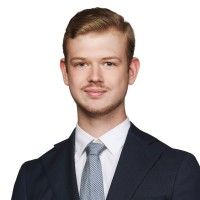
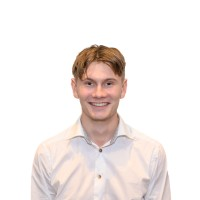
Add all team photos: Tom, Gabriel, Daniel, and Abdul
Replace placeholder initials with actual team photos for all four co-founders.

diff --git a/about/index.html b/about/index.html
@@ -182,14 +182,14 @@
 
     <div class="grid-4">
       <div class="team-card animate-on-scroll delay-1">
-        <div class="team-avatar">TH</div>
+        <img src="/images/team/tom-hynne.jpg?v=1" alt="Tom Hynne" class="team-photo" loading="lazy">
         <h4>Tom Hynne</h4>
         <div class="team-role">Medgründer &amp; CEO</div>
         <p>Med 5+ år som IT-konsulent har Tom jobbet på tvers av bransjer, systemer og utfordringer. Han snakker både "teknolog" og "bedriftseier" — og sørger for at løsningene alltid treffer der det faktisk gjør vondt.</p>
       </div>
 
       <div class="team-card animate-on-scroll delay-2">
-        <div class="team-avatar">GW</div>
+        <img src="/images/team/gabriel-wollan.jpg?v=1" alt="Gabriel Wollan" class="team-photo" loading="lazy">
         <h4>Gabriel Wollan</h4>
         <div class="team-role">Medgründer &amp; CTO</div>
         <p>Gabriel har automatisert alt fra enkle arbeidsflyter til komplekse industrisystemer. Er du usikker på om noe lar seg automatisere — spør Gabriel. Svaret er nesten alltid ja.</p>
